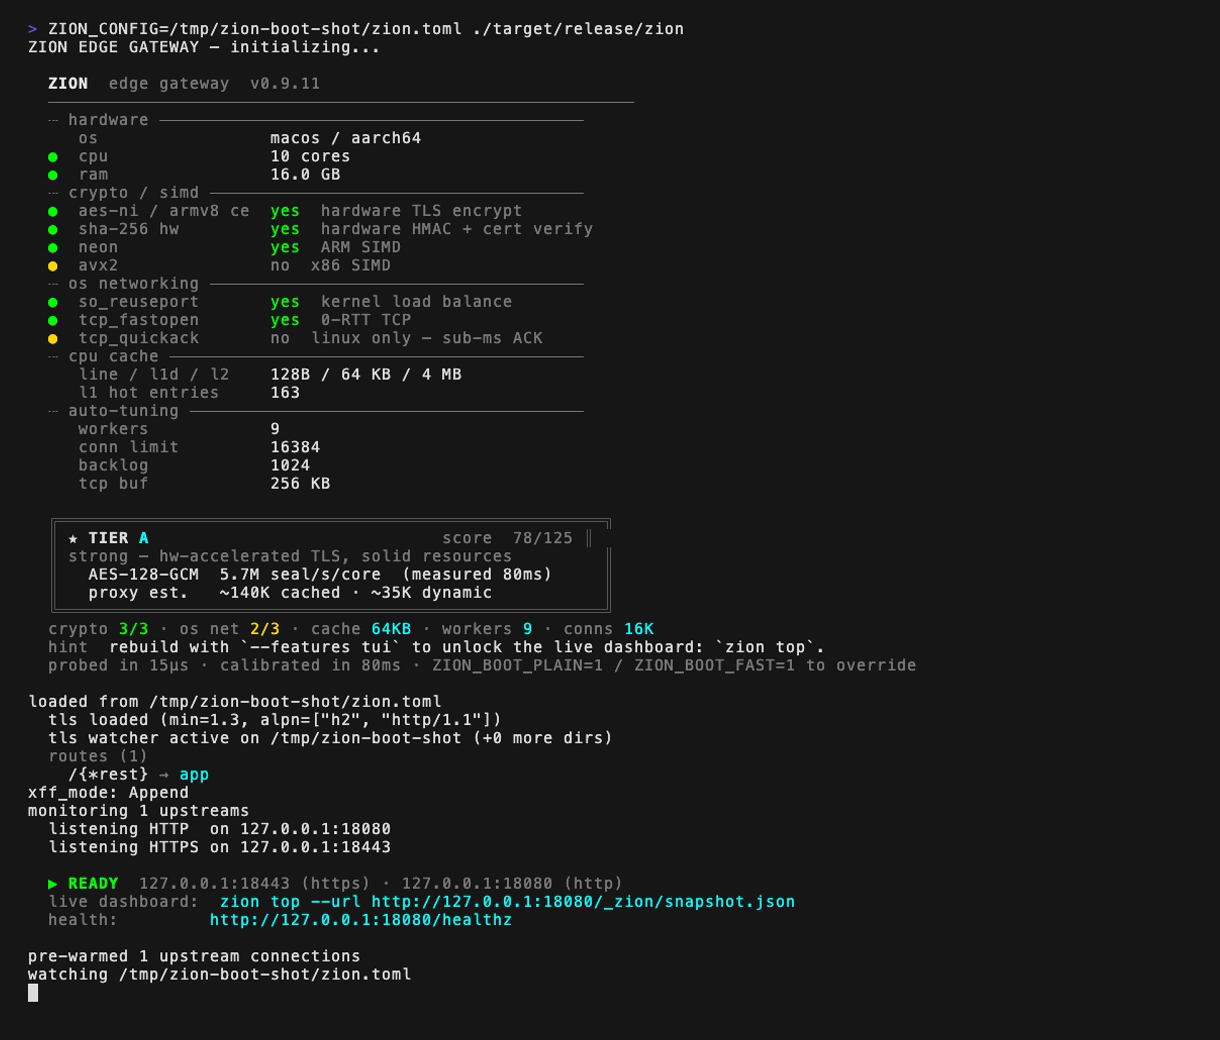
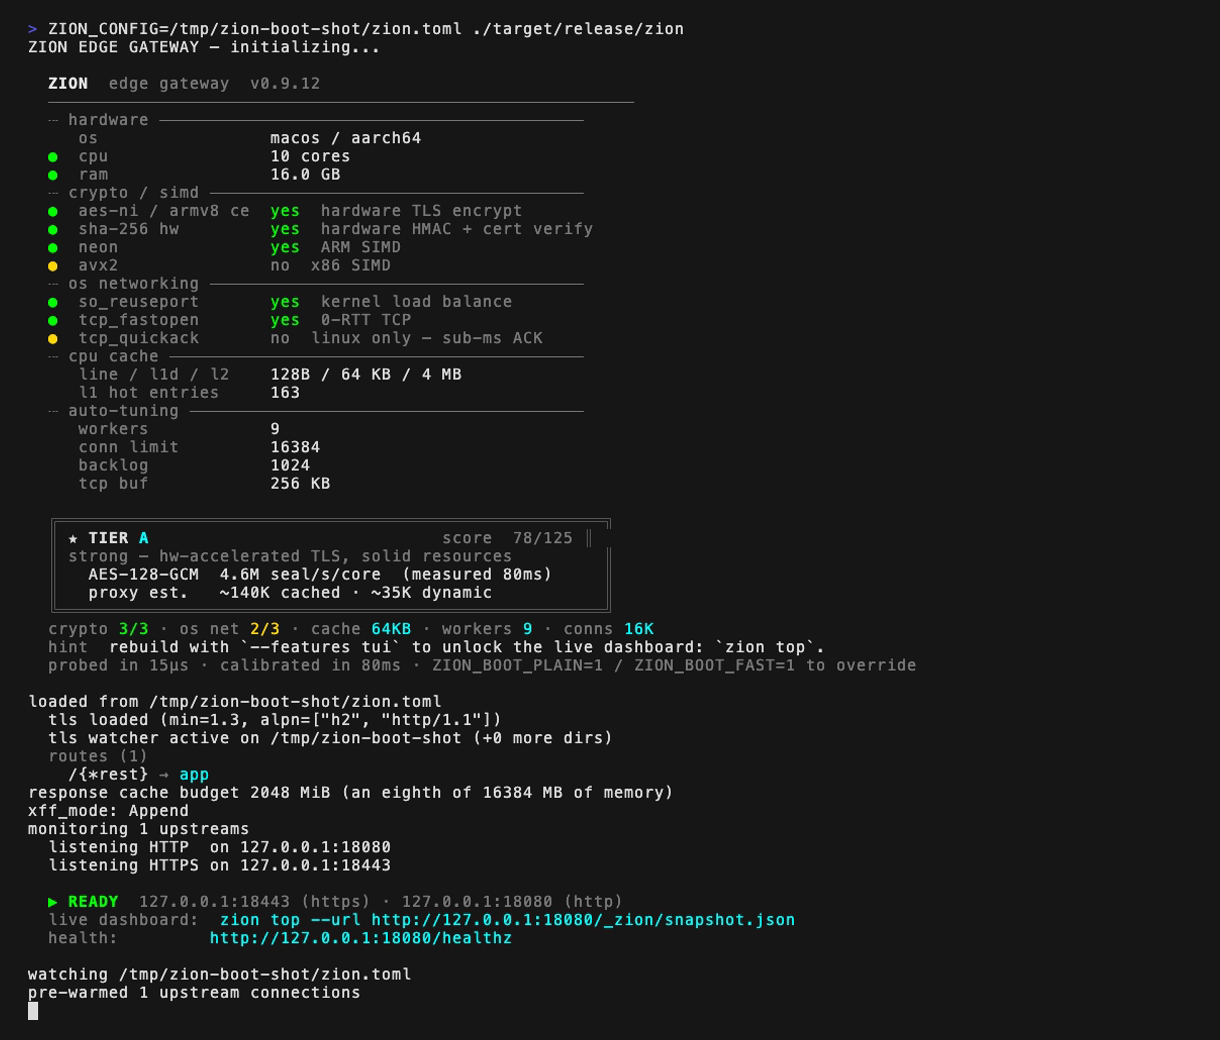
chore(release): v0.9.12 (#578)

Changed region(s): [[0.0, 0.7385, 0.6541, 0.9846], [0.1246, 0.9538, 0.1557, 0.9846], [0.0, 0.9538, 0.0311, 0.9846]]

diff --git a/CHANGELOG.md b/CHANGELOG.md
@@ -4,6 +4,19 @@ All notable changes to Zion Edge Gateway are documented here.
 
 ## [Unreleased]
 
+## [0.9.12] - 2026-10-05
+
+**Security release: with rate limiting on, a full rate map froze the proxy.** If `rate_limit_rps` is set, upgrade: when the per-IP rate map reached `rate_limit_max_tracked_ips` a request thread could block for ever on the map, and every request behind it. Also in this release: the response cache has a memory budget, a full cache keeps far more hits, and the rate limiter no longer refuses new clients while its map is full of addresses it no longer needs.
+
+### Upgrade notes
+
+- **Upgrade if you use `rate_limit_rps`.** Nothing to configure.
+- **The response cache now has a memory budget, on by default**: an eighth of the memory the process may use (the cgroup limit in a container), never less than 32 MiB. A cache that used to hold more than that evicts earlier. Watch `zion_cache_bytes` against the budget and `zion_cache_budget_skipped_total`; raise `[server] cache_max_memory_mb` if the hit rate drops, or set it to `0` for no budget.
+- **A full cache evicts the entries stored first**, where it used to pick among the first few of its map. Hit rates under a full cache go up (57 % to 82 % in the test that found it); nothing to configure.
+- **`rate_limit_max_tracked_ips` now means what its documentation said**: a new address is refused only when the map holds that many addresses seen in the current window. Before, a map at the cap could refuse new clients for up to a minute.
+- **The embedded Italian and EU-27 address tables are the 2026-10-05 snapshot.** It corrects three blocks that were wrong since 0.9.2 (a research network counted as plain EU space, a residential block counted as a datacenter, an Italian residential block missing); how those tables are refreshed is under review (#568).
+- No setting was removed.
+
 ### Security
 
 - **With rate limiting on, a full rate map froze the proxy.** When the per-IP rate limiter's map reached `rate_limit_max_tracked_ips` and one of the first entries it looked at was stale, it removed that entry while still iterating over the map: the thread waited for a lock it was holding itself and never came back, and every request that needed the same part of the map waited behind it. In a test with a cap of 4, the fifth client hung and after it every request did, `/metrics` included, until restart. Reaching the cap takes 100,000 distinct client addresses within a minute by default, which one host with an IPv6 prefix can produce, so this is a way for an unauthenticated client to stop the proxy. It affects every release since 0.1.8, and only configurations with `rate_limit_rps` set (it is off by default). **Upgrade if you use `rate_limit_rps`.**

diff --git a/docs/security/supply-chain.md b/docs/security/supply-chain.md
@@ -46,8 +46,8 @@ You need the GitHub CLI (`gh >= 2.49`) and `cosign >= 2.2`.
 
 ```bash
 # 1. Download the artifact + SHA256SUMS from the release page.
-gh release download v0.9.11 -R fabriziosalmi/zion \
-    -p 'zion-v0.9.11-x86_64-unknown-linux-musl.tar.gz' \
+gh release download v0.9.12 -R fabriziosalmi/zion \
+    -p 'zion-v0.9.12-x86_64-unknown-linux-musl.tar.gz' \
     -p 'SHA256SUMS' \
     -p 'zion-sbom.cdx.json'
 
@@ -55,7 +55,7 @@ gh release download v0.9.11 -R fabriziosalmi/zion \
 sha256sum --check --ignore-missing SHA256SUMS
 
 # 3. Verify the SLSA build provenance bound to the artifact's hash.
-gh attestation verify zion-v0.9.11-x86_64-unknown-linux-musl.tar.gz \
+gh attestation verify zion-v0.9.12-x86_64-unknown-linux-musl.tar.gz \
     --owner fabriziosalmi
 
 # Step 3 fails if:
@@ -78,7 +78,7 @@ grype zion-sbom.cdx.json
 ## Verifying a container image
 
 ```bash
-IMAGE=ghcr.io/fabriziosalmi/zion:v0.9.11
+IMAGE=ghcr.io/fabriziosalmi/zion:v0.9.12
 
 # 1. Pin to the digest immediately — tags are mutable, digests are not.
 DIGEST=$(crane digest "$IMAGE")
@@ -123,7 +123,7 @@ commit stamped into the version string (`ZION_GIT_SHA`, `ZION_COMMIT_DATE`),
 Linux musl artifact the same way:
 
 ```bash
-git checkout v0.9.11
+git checkout v0.9.12
 export SOURCE_DATE_EPOCH=$(git log -1 --pretty=%ct)
 export ZION_GIT_SHA=$(git rev-parse --short=12 HEAD)
 export ZION_COMMIT_DATE=$(git show -s --format=%cd --date=format:%Y-%m-%d HEAD)
@@ -138,7 +138,7 @@ sha256sum target/x86_64-unknown-linux-musl/release/zion
 the one inside the published archive:
 
 ```bash
-tar -xzOf zion-v0.9.11-x86_64-unknown-linux-musl.tar.gz zion | sha256sum
+tar -xzOf zion-v0.9.12-x86_64-unknown-linux-musl.tar.gz zion | sha256sum
 ```
 
 or recreate the archive with the same `tar` flags and compare it against

diff --git a/README.md b/README.md
@@ -321,12 +321,12 @@ Every release is signed and carries SLSA v1.0 build provenance — see
 
 ```bash
 # Binary release (Sigstore-backed provenance via gh CLI)
-gh release download v0.9.11 -R fabriziosalmi/zion -p '*x86_64-unknown-linux-musl*' -p 'SHA256SUMS'
+gh release download v0.9.12 -R fabriziosalmi/zion -p '*x86_64-unknown-linux-musl*' -p 'SHA256SUMS'
 sha256sum --check --ignore-missing SHA256SUMS
-gh attestation verify zion-v0.9.11-x86_64-unknown-linux-musl.tar.gz --owner fabriziosalmi
+gh attestation verify zion-v0.9.12-x86_64-unknown-linux-musl.tar.gz --owner fabriziosalmi
 
 # Container image (cosign keyless)
-cosign verify ghcr.io/fabriziosalmi/zion:v0.9.11 \
+cosign verify ghcr.io/fabriziosalmi/zion:v0.9.12 \
     --certificate-identity-regexp "^https://github.com/fabriziosalmi/zion/\\.github/workflows/release\\.yml@refs/tags/v" \
     --certificate-oidc-issuer "https://token.actions.githubusercontent.com"
 ```

diff --git a/docs/index.md b/docs/index.md
@@ -20,7 +20,7 @@ description: One auditable Rust binary at the edge — TLS 1.3 termination, a ze
     <aside class="ds-spec">
       <div class="cap">Specification</div>
       <dl>
-        <div class="ds-row"><dt>Version</dt><dd class="tnum">0.9.11</dd></div>
+        <div class="ds-row"><dt>Version</dt><dd class="tnum">0.9.12</dd></div>
         <div class="ds-row"><dt>Language</dt><dd>Rust · MSRV 1.82</dd></div>
         <div class="ds-row"><dt>Binary</dt><dd class="tnum">~4 MB · static</dd></div>
         <div class="ds-row"><dt>TLS proxy</dt><dd class="tnum">108<span class="u">k</span> req/s</dd></div>

diff --git a/.github/ISSUE_TEMPLATE/bug_report.md b/.github/ISSUE_TEMPLATE/bug_report.md
@@ -21,7 +21,7 @@ A clear and concise description of what you expected to happen.
 **Environment (please complete the following information):**
  - OS: [e.g. Linux, macOS]
  - Architecture: [e.g. arm64, amd64]
- - Zion Version: [e.g. 0.9.11]
+ - Zion Version: [e.g. 0.9.12]
 
 **Additional context**
 Add any other context about the problem here (e.g. logs with `RUST_LOG=trace`, upstream backend type like Go/Node).

diff --git a/SECURITY.md b/SECURITY.md
@@ -8,7 +8,7 @@ the current version.
 
 | Version | Supported |
 | ------- | --------- |
-| < 0.9.11 | No |
+| < 0.9.12 | No |
 
 Everything at or above that line is the current release. Stated as a single
 threshold on purpose — the previous wording carried a second, hardcoded row

diff --git a/docs/deploy/hot-reload.md b/docs/deploy/hot-reload.md
@@ -135,7 +135,7 @@ Two surfaces report the reload state:
 
   ```json
   {
-    "version": "0.9.11",
+    "version": "0.9.12",
     "timestamp_ms": 1714425600000,
     "uptime_secs": 3712,
     "config_generation": 5,
